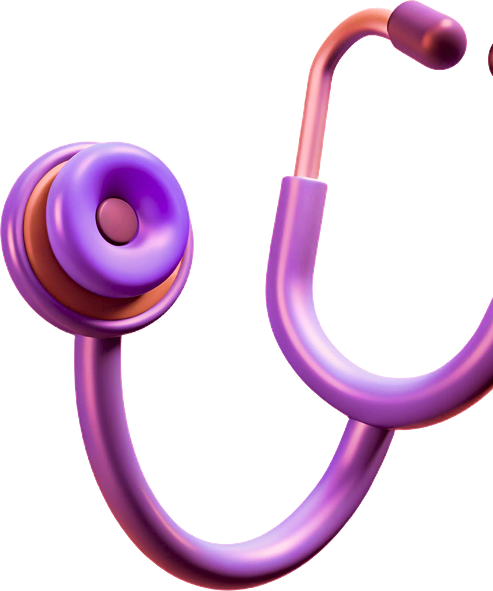
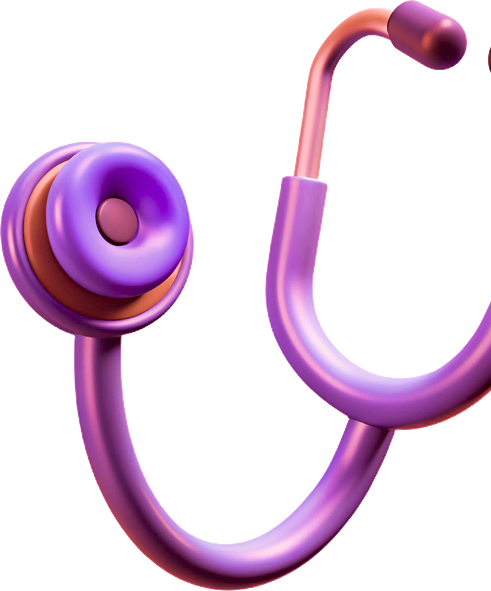
code updated

diff --git a/src/components/MedDentalTrust/MedDentalTrust.jsx b/src/components/MedDentalTrust/MedDentalTrust.jsx
@@ -1,4 +1,5 @@
 import mdVectorImg from '../../imagesfolder/medicaldental/md-trust section/mdvector.png'
+import stethoscopeImg from '../../imagesfolder/medicaldental/md-problem/stethoscope3d.png'
 import './MedDentalTrust.css'
 
 const stats = [
@@ -10,6 +11,7 @@ const stats = [
 export default function MedDentalTrust() {
   return (
     <section className="md-trust">
+      <img src={stethoscopeImg} alt="" className="md-trust__stethoscope" />
       <div className="md-trust__wrap">
         <div className="md-trust__row">
 

diff --git a/src/components/MedDentalTrust/MedDentalTrust.css b/src/components/MedDentalTrust/MedDentalTrust.css
@@ -18,6 +18,14 @@
   pointer-events: none;
 }
 
+.md-trust__stethoscope {
+  position: absolute;
+  right: 0;
+  top: 0;
+  width: 250px;
+  height: 300px;
+}
+
 .md-trust__wrap {
   max-width: 1346.5px;
   margin: 0 auto;
